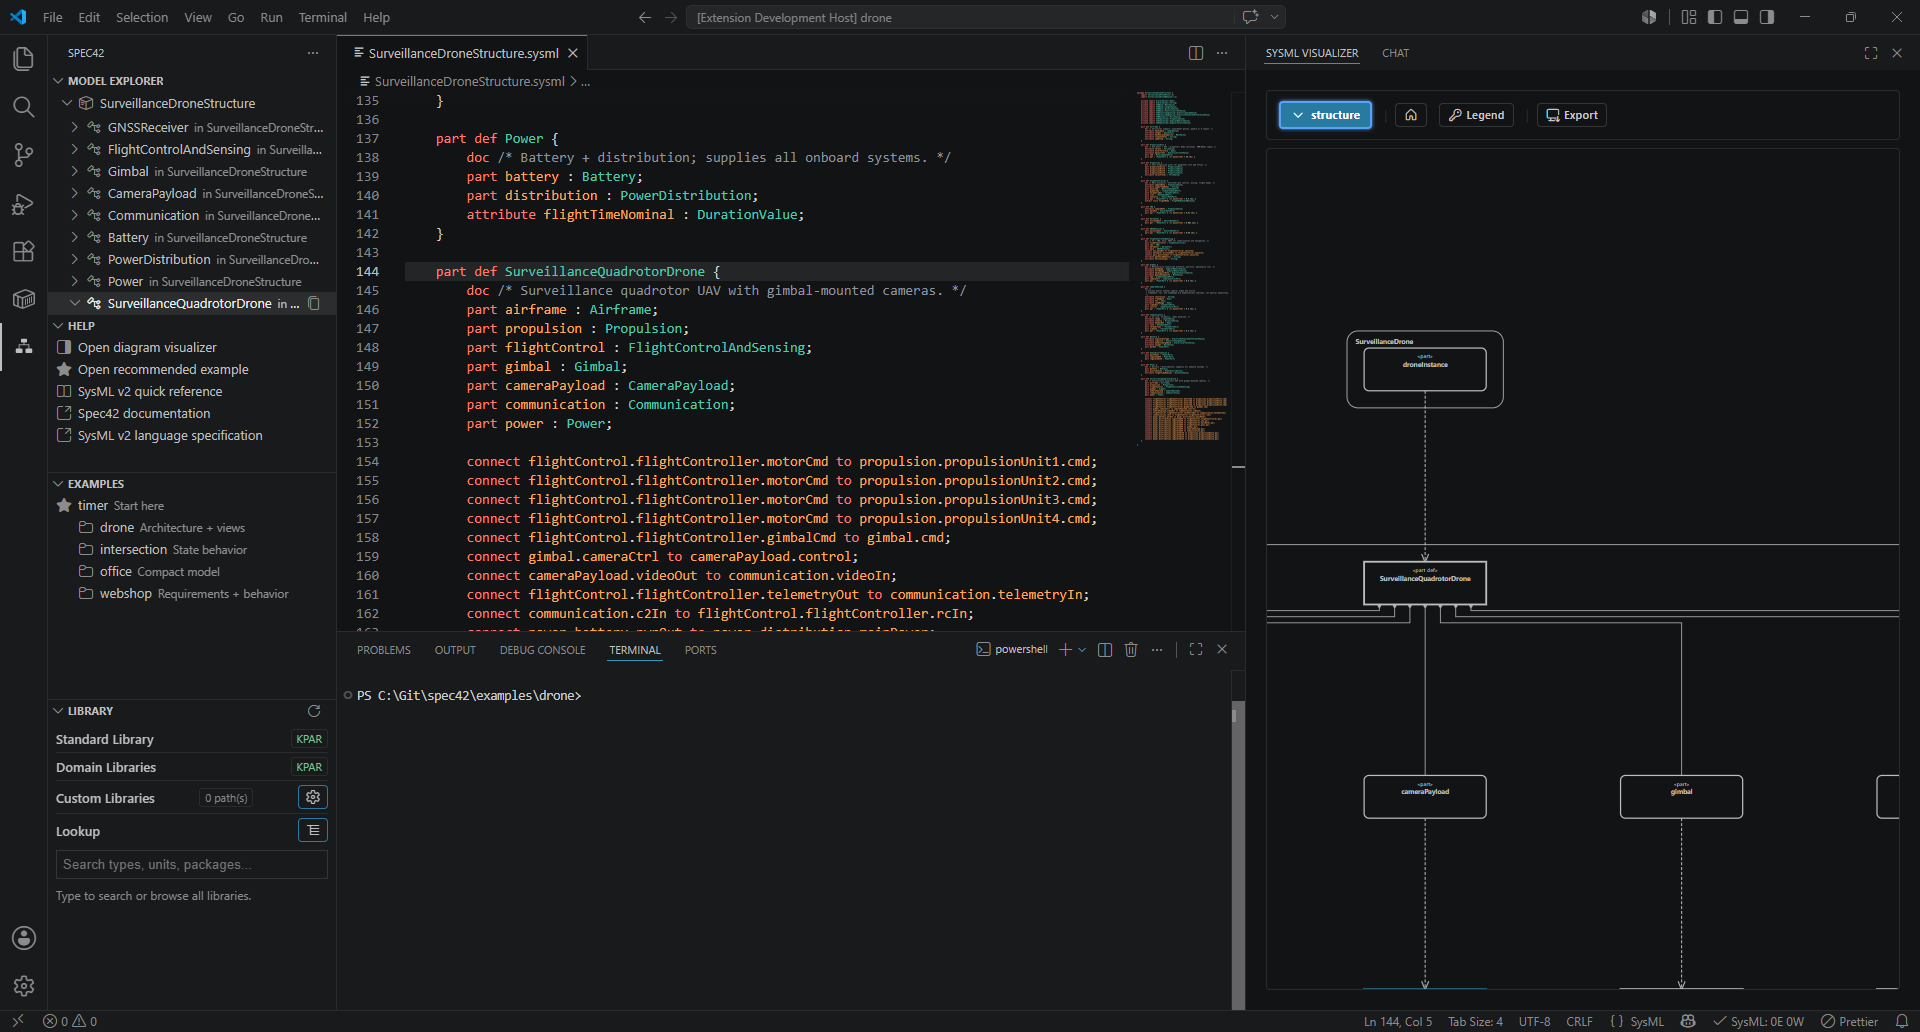
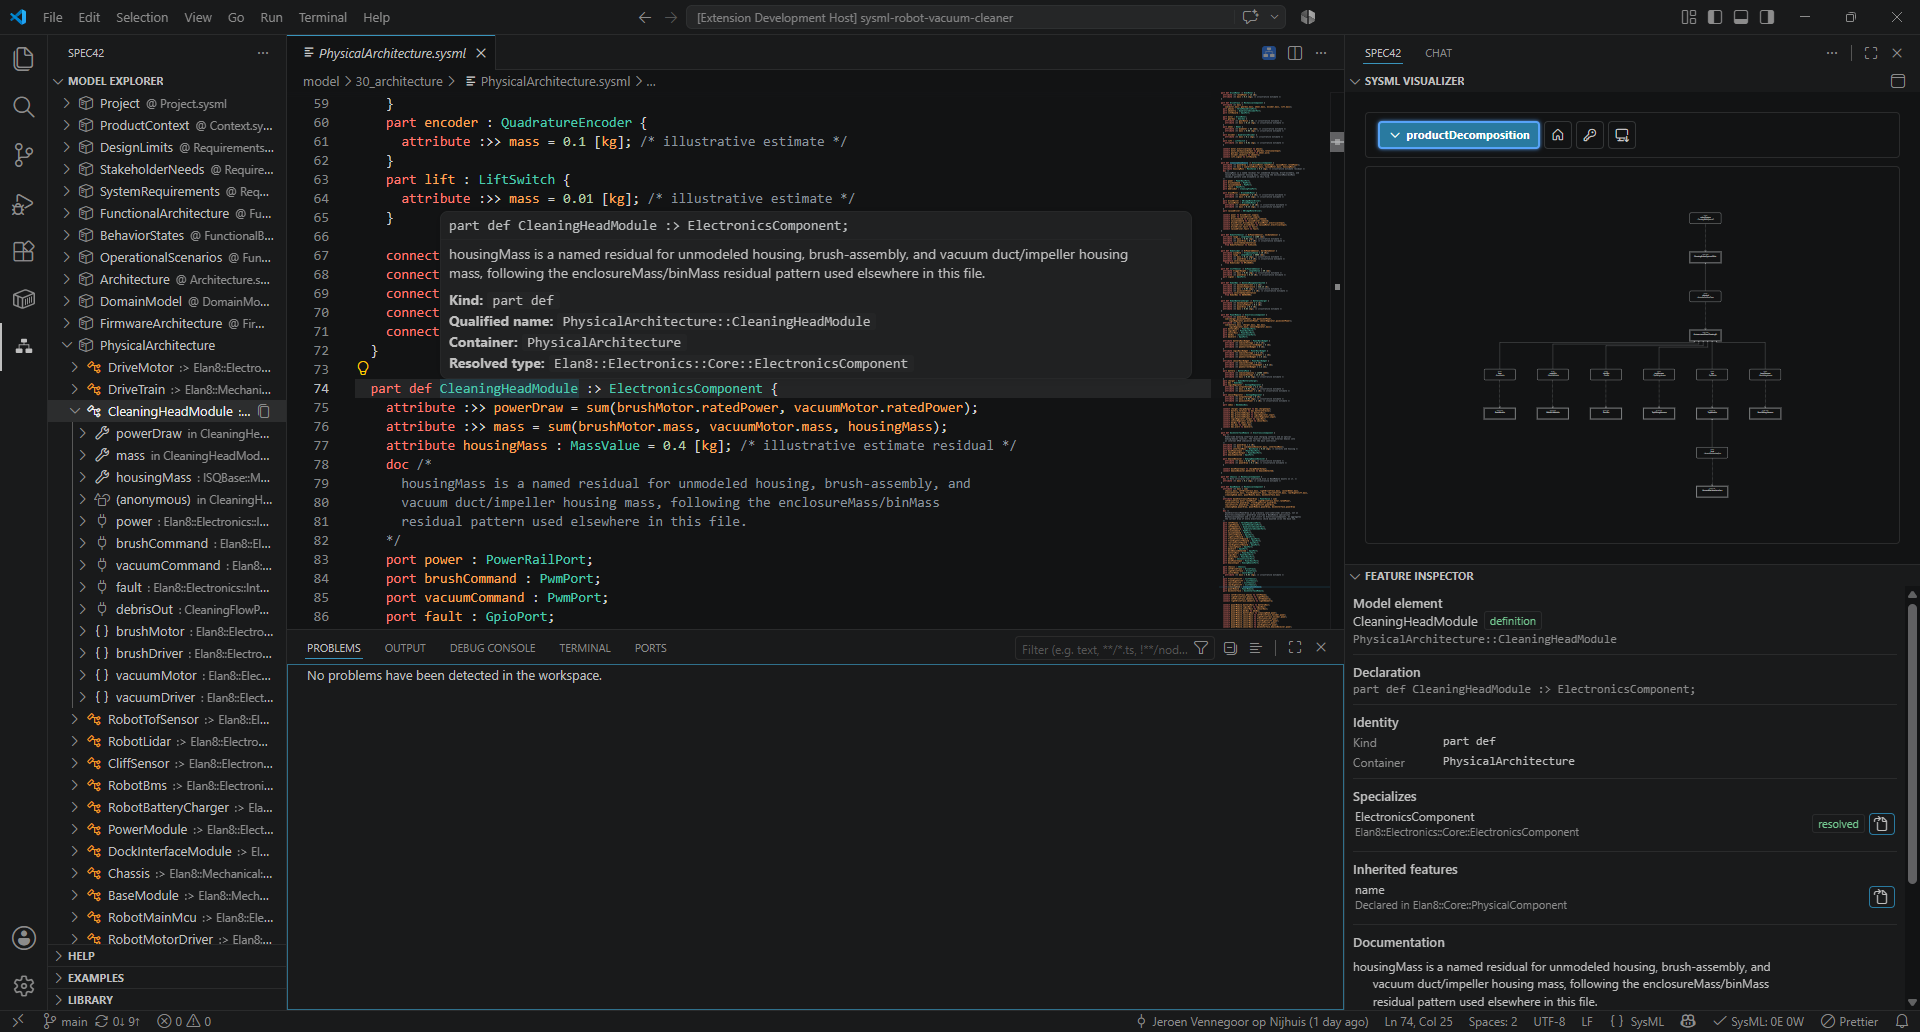
Refactor evaluate_named_view function for improved parameter formatting in SysML view tests
This commit modifies the `evaluate_named_view` function in the `view_expose_inherited_parts.rs` test file to streamline the parameter definition into a single line, enhancing code readability. Additionally, it updates the assertion in the `general_view_exact_expose_does_not_infer_typed_definition_parts` test for clarity. These changes contribute to a cleaner and more maintainable test codebase.

diff --git a/crates/sysml_model/tests/view_expose_inherited_parts.rs b/crates/sysml_model/tests/view_expose_inherited_parts.rs
@@ -1,4 +1,4 @@
-use sysml_model::{
+use sysml_model::{
     build_semantic_graph_from_documents, build_view_catalog, build_workspace_graph_dto_for_uris,
     evaluate_views, project_ids_for_renderer, SysmlDocument, SysmlDocumentSourceKind,
 };
@@ -31,12 +31,7 @@ package P {
 }
 "#;
 
-fn evaluate_named_view(
-    sysml: &str,
-) -> (
-    sysml_model::EvaluatedView,
-    sysml_model::SysmlGraphDto,
-) {
+fn evaluate_named_view(sysml: &str) -> (sysml_model::EvaluatedView, sysml_model::SysmlGraphDto) {
     let doc = SysmlDocument::from_memory_path(
         "workspace",
         "model.sysml",
@@ -81,8 +76,7 @@ fn general_view_exact_expose_does_not_infer_typed_definition_parts() {
 
     let projected = project_ids_for_renderer(&view, &graph_dto, "general-view");
     assert_eq!(
-        projected,
-        view.exposed_ids,
+        projected, view.exposed_ids,
         "GeneralView projection follows exact exposed scope"
     );
 }
